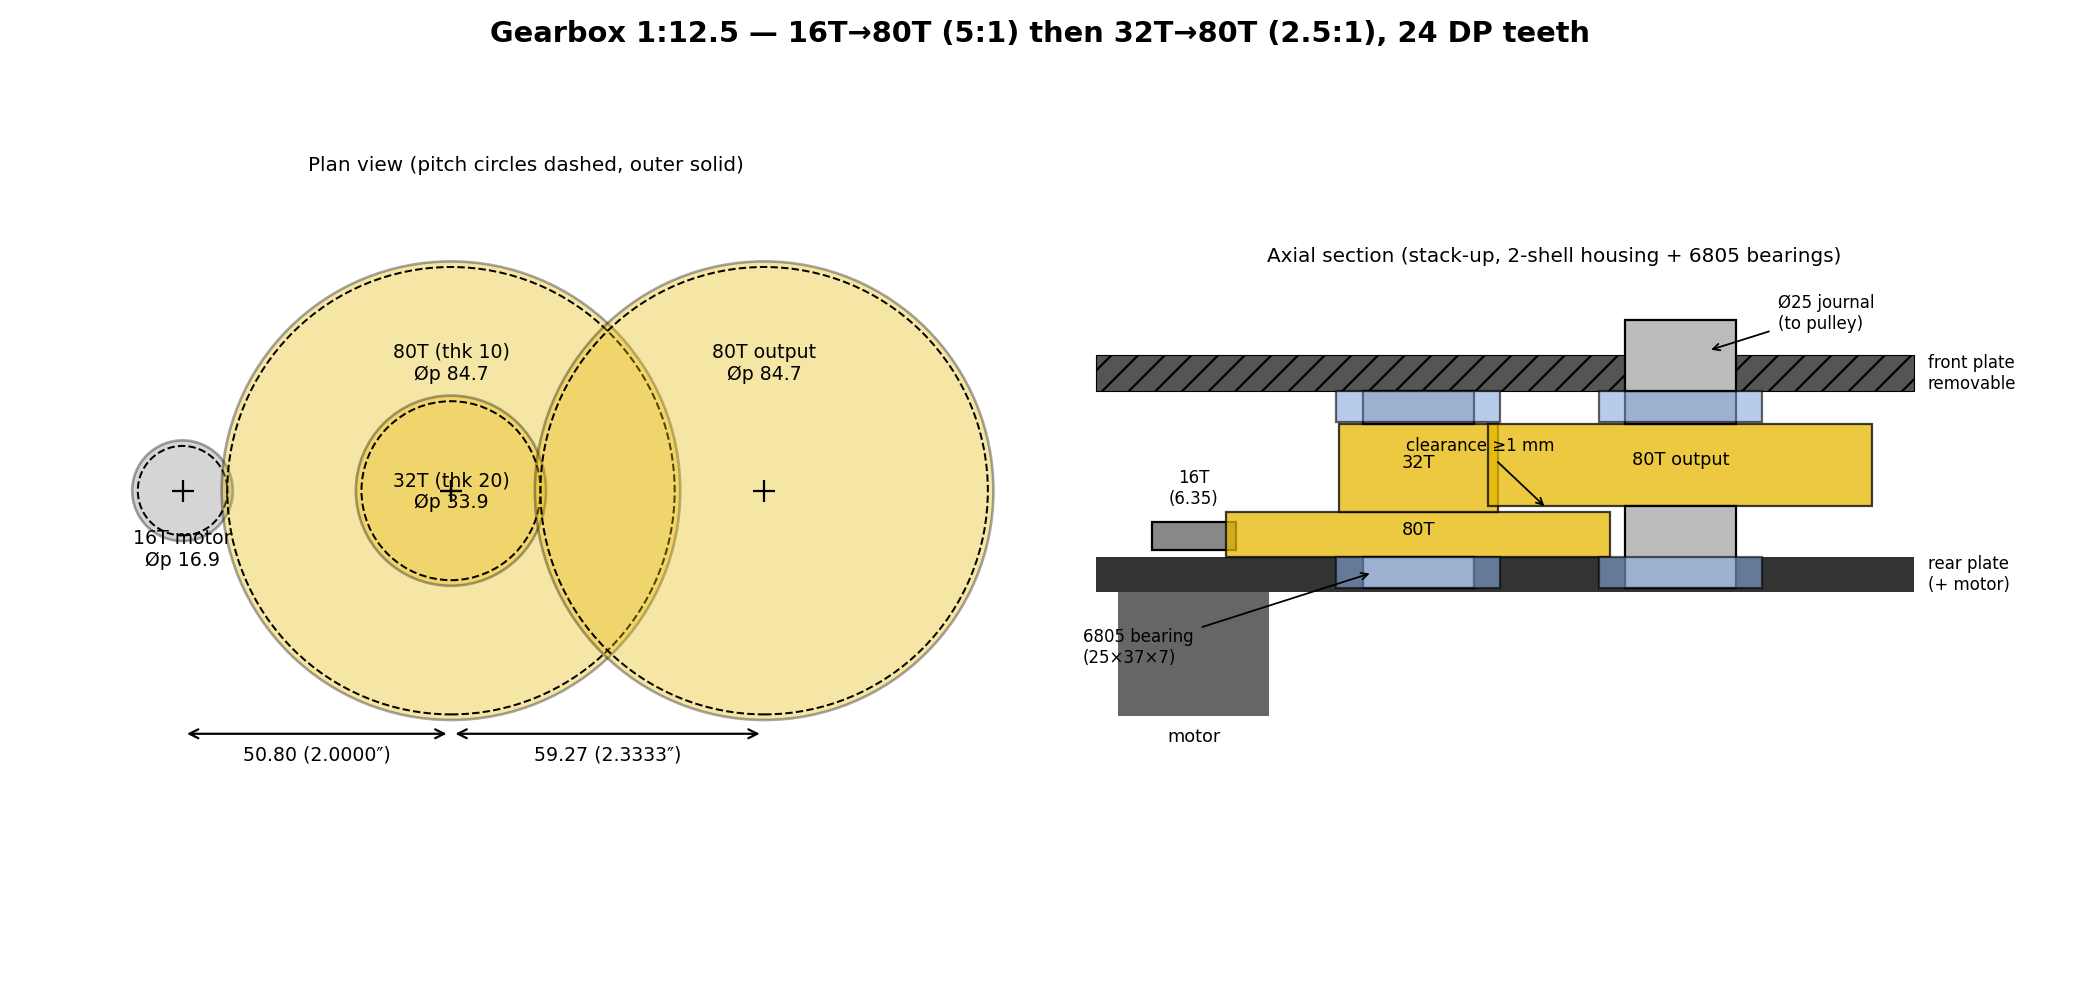
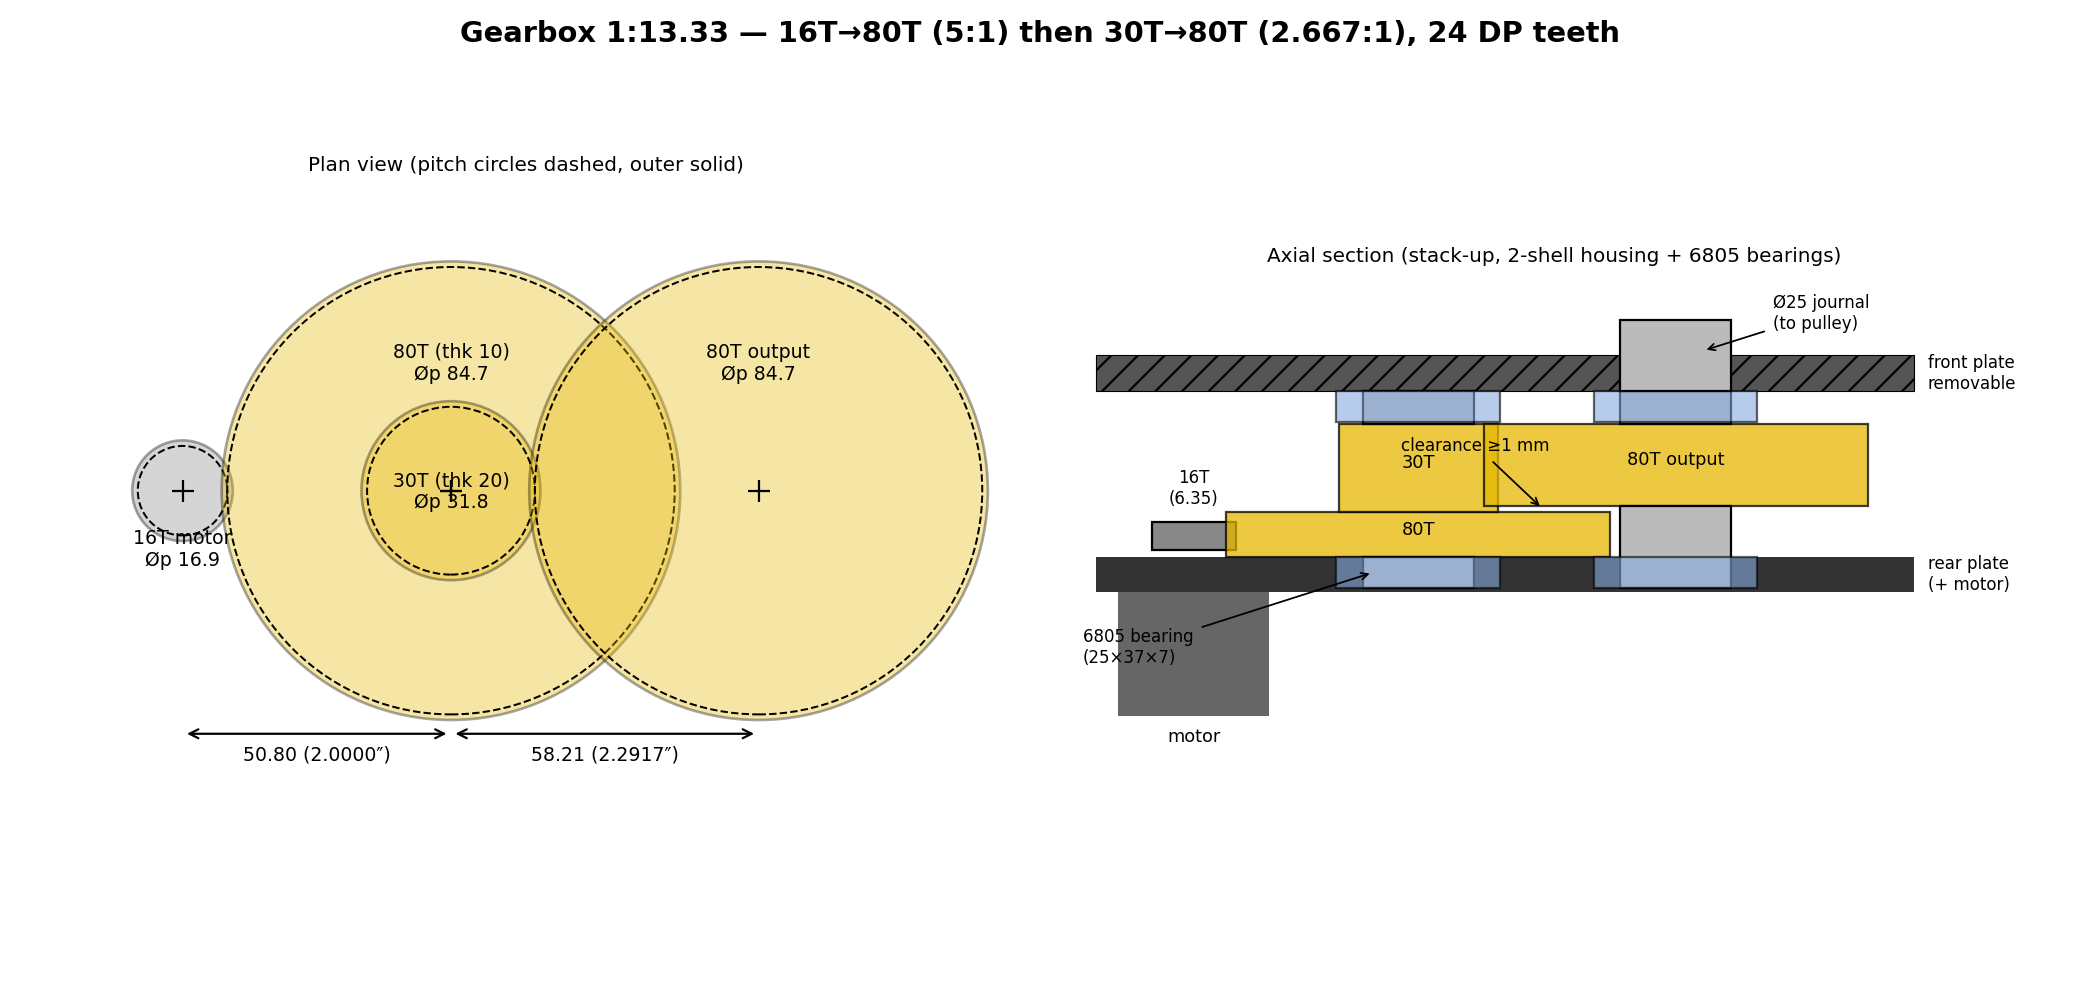
Gearbox ratio → 1:13.33 (16→80 / 30→80), 1:17.07 total
Second-stage pinion changed 32T → 30T (for space). New train:
16T motor → 80T (5:1) then 30T → 80T (2.667:1) = gearbox 13.33:1,
× 25T→32T pulleys (1.28:1) = 17.07:1 total (was 12.5 / 16.0).
Stage-2 center distance 59.27 → 58.21 mm; theoretical top speed ~3.4 m/s
(firmware-limited to 3.3); ~7% more torque; stage-2 tooth force ~113 N.

GEAR_RATIO = 1.28 is UNCHANGED: the AS5600 sits at the gearbox output, so
only the (unchanged) pulleys affect the encoder→speed conversion.

- doc/reducteur.md: chosen-revision section, loads, firmware-align note.
- doc/schematics/gearbox.py + regenerated gearbox.png (30T pinion, 58.21 mm).
- doc/cad/gearbox.scad: 30T + new center distance; also translated its
  remaining French comments to English (missed by the earlier i18n pass).
- README.md / firmware/README.md: all ratio mentions + top-speed figures.
- control_types.hpp: comment (13.33 × 1.28 = 17.07).
- sim vehicle.hpp: physics gear 16 → 17.07.

Verified: host tests + 27 sim scenarios pass (vmax now 2.99 m/s), ESP build
clean, gearbox figure regenerated and checked.

diff --git a/doc/schematics/gearbox.py b/doc/schematics/gearbox.py
@@ -1,4 +1,4 @@
-# gearbox.py — Printed 1:12.5 gearbox schematic (plan view + axial section).
+# gearbox.py — Printed 1:13.33 gearbox schematic (plan view + axial section).
 # Actual dimensions (24 DP) — see doc/reducteur.md. Regenerate:
 #   . .venv-schem/bin/activate && python doc/schematics/gearbox.py
 import matplotlib
@@ -15,14 +15,14 @@ def outer_d(z): return (z + 2) / DP * IN    # outer Ø
 # Axes (plan view, aligned layout like the prototype)
 A_MOT = (0.0, 0.0)                # motor axis (16T pinion)
 E1 = (16 + 80) / (2 * DP) * IN    # 50.80
-E2 = (32 + 80) / (2 * DP) * IN    # 59.27
-A_INT = (E1, 0.0)                 # intermediate axis (80T + 32T)
+E2 = (30 + 80) / (2 * DP) * IN    # 58.21
+A_INT = (E1, 0.0)                 # intermediate axis (80T + 30T)
 A_OUT = (E1 + E2, 0.0)            # output axis (64T + pulley)
 
 C_PIN, C_64, C_32 = '#888888', '#e6b800', '#e6b800'
 
 fig, (ax1, ax2) = plt.subplots(1, 2, figsize=(13, 6.2))
-fig.suptitle("Gearbox 1:12.5 — 16T→80T (5:1) then 32T→80T (2.5:1), 24 DP teeth",
+fig.suptitle("Gearbox 1:13.33 — 16T→80T (5:1) then 30T→80T (2.667:1), 24 DP teeth",
              fontsize=13, fontweight='bold')
 
 # ───────────────────────── Plan view─────────────────────────
@@ -38,12 +38,12 @@ def gear_plan(ax, center, z, color, label, label_dy):
 
 gear_plan(ax1, A_MOT, 16, C_PIN, "16T motor\nØp 16.9", -34)
 gear_plan(ax1, A_INT, 80, C_64, "80T (thk 10)\nØp 84.7", 50)
-gear_plan(ax1, A_INT, 32, C_32, "32T (thk 20)\nØp 33.9", -8)
+gear_plan(ax1, A_INT, 30, C_32, "30T (thk 20)\nØp 31.8", -8)
 gear_plan(ax1, A_OUT, 80, C_64, "80T output\nØp 84.7", 50)
 
 # Dimensioned center distances
 for (x0, x1, txt) in [(A_MOT[0], A_INT[0], "50.80 (2.0000″)"),
-                      (A_INT[0], A_OUT[0], "59.27 (2.3333″)")]:
+                      (A_INT[0], A_OUT[0], "58.21 (2.2917″)")]:
     y = -46
     ax1.annotate('', xy=(x1, y), xytext=(x0, y), arrowprops=dict(arrowstyle='<->', lw=1))
     ax1.text((x0 + x1) / 2, y - 5, txt, ha='center', fontsize=8.5)
@@ -87,7 +87,7 @@ for zb in (Z0 - BRG_T, zfront - 0.001):                                         
 rect(ax2, x - BRG_D / 2, Z0 - BRG_T, BRG_D, BRG_T, facecolor='#88aadd', edgecolor='black', alpha=0.6)
 rect(ax2, x - BRG_D / 2, zfront - BRG_T, BRG_D, BRG_T, facecolor='#88aadd', edgecolor='black', alpha=0.6)
 ax2.text(x, Z0 + T64 / 2, "80T", ha='center', fontsize=8)
-ax2.text(x, Z0 + T64 + T32 / 2, "32T", ha='center', fontsize=8)
+ax2.text(x, Z0 + T64 + T32 / 2, "30T", ha='center', fontsize=8)
 
 # output 64T: at the 32T level (offset by GAP above stage-1 64T)
 xo = A_OUT[0]

diff --git a/firmware/main/control_types.hpp b/firmware/main/control_types.hpp
@@ -41,9 +41,9 @@ constexpr int VBAT_READ_TICKS = 25;   // 500 Hz / 25 = 20 Hz
 constexpr uint8_t ADS1115_ADDR = 0x48;
 
 // AS5600 angle sensor (I2C, 12-bit absolute = 4096 counts/turn). Kinematics (see
-// doc/reducteur.md): gearbox 16T→80T then 32T→80T = 1:12.5; magnet on the GEARBOX OUTPUT,
+// doc/reducteur.md): gearbox 16T→80T then 30T→80T = 1:13.33; magnet on the GEARBOX OUTPUT,
 // then pulleys 25T→32T (1.28:1) up to the wheel → the sensor turns 1.28 times per wheel turn
-// ⇒ GEAR_RATIO = 1.28 (total motor→wheel reduction: 12.5 × 1.28 = 16.0 EXACTLY).
+// ⇒ GEAR_RATIO = 1.28 (total motor→wheel reduction: 13.33 × 1.28 = 17.07).
 // 10" wheel = 0.254 m. Native 3.3 V supply → NO level-shift. Speed = derivative of the angle
 // (Δcounts × CTRL_HZ) with 0↔4095 wrap; the SIGN of Δ gives the direction. 500 Hz: unambiguous.
 constexpr float AS5600_CPR    = 4096.0f;  // counts per turn (12 bits)

diff --git a/firmware/test_host/sim/vehicle.hpp b/firmware/test_host/sim/vehicle.hpp
@@ -43,7 +43,7 @@ struct VehicleParams
     // capped everywhere at kt·i_max: the simulation can NEVER exceed the theoretical
     // capacity of the motors (real stall 85 A and plugging ~150 A are therefore clamped).
     float i_max_a   = 19.6f;
-    float gear      = 16.f;     // total motor → wheel reduction (1:16.0)
+    float gear      = 17.07f;   // total motor → wheel reduction (1:17.07)
     float eta       = 0.85f;    // gearbox + belt efficiency
     float wheel_r_m = hw::WHEEL_DIAM_M / 2.f;
 

diff --git a/README.md b/README.md
@@ -79,7 +79,7 @@ flowchart TB
 
 **Footprint:** length ~125 cm · width ~91 cm · **front track width ~84 cm** · **wheelbase ~76 cm** (axle **set back** into the body, nose ~30 cm) · **2 front drive wheels Ø25.4 cm (10″) + tech bay in the nose** + **1 free rear caster wheel 10″** · **side guardrails** + **emergency stop at the top of the seatback (centered)** · low seat (tip-resistant).
 
-> ⚠ For **flat ground, under adult supervision** only. Estimated speed ~8–11.5 km/h (~3.2 m/s), runtime ~10–20 min. **A tricycle tips over more easily than a 4-wheeler** → software rollover protection (see §3).
+> ⚠ For **flat ground, under adult supervision** only. Estimated speed ~8–12 km/h (~3.3 m/s), runtime ~10–20 min. **A tricycle tips over more easily than a 4-wheeler** → software rollover protection (see §3).
 
 ## At a glance
 
@@ -88,7 +88,7 @@ flowchart TB
 | **Seats** | 2, single bench side by side; **driver on the left** (gamepad) |
 | **Steering** | **Differential (skid steer)**: speed difference between the 2 front wheels; **pivot in place** possible; **no mechanical steering parts** |
 | **Propulsion** | **2× 12 V DC motors (~172 W / 0.23 HP)** at the FRONT, **independent** (one per wheel) — **PWM/DIR per wheel** |
-| **Transmission** | **3D-printed 1:16 gearboxes** (two 4:1 stages, 16T/24 DP motor pinion — see [`doc/reducteur.md`](doc/reducteur.md)) + **pulleys bolted to the front wheels + belts** |
+| **Transmission** | **3D-printed gearboxes** (16→80 then 30→80 = 1:13.33, 16T/24 DP motor pinion — see [`doc/reducteur.md`](doc/reducteur.md)) + **1.28:1 pulleys bolted to the front wheels + belts** = **1:17 total** |
 | **Wheels** | **2× front drive Ø25.4 cm (10″)** (plastic rim, 1/2" bearing) + **1 free pivoting rear caster wheel** |
 | **Driving** | **Bluetooth gamepad** (stick: Y = forward/reverse, X = turn); **calibration mandatory**; analog joystick reserved (future) |
 | **Electronics** | **ESP32** → **dual-channel driver 20 A / 6–30 V** (PWM + DIR / channel), **PWM capped at ≈ 12 V/Vbat** (12 V → ~100%, 24 V → ~50%); **tech bay in the nose** (near the 2 motors, short power wiring) |
@@ -281,8 +281,8 @@ Web parameters: **`turn_gain`** (turn authority), **`turn_full_ms`** / **`turn_h
 | | **1× pivoting rear caster wheel (caster)** | **Free**, unpowered caster; **Ø ~12.5 cm (5")**, mounted height ~15 cm, **load ≥ 50 kg** |
 | | Shoulder bolts (front wheels) | **Supplied with the wheels** (1/2" shoulder, 3/8" thread) |
 | **Propulsion** | **2× 12 V DC motors** (one per **front** wheel) | ~172 W (0.23 HP), 19.6 A, 4615 rpm; **independent** |
-| | 2 3D gearboxes | **1:16** ratio (two 4:1 stages, [design](doc/reducteur.md)), printed (PETG/ABS/nylon) |
-| | Pulleys + belts | Pulley **bolted to each front wheel** + belt to the gearbox (**1:1**) |
+| | 2 3D gearboxes | **1:13.33** (16→80 then 30→80, [design](doc/reducteur.md)) + 1.28:1 pulleys = **1:17 total**, printed (PETG/ABS/nylon) |
+| | Pulleys + belts | Pulley **bolted to each front wheel** + belt from the gearbox (**1.28:1 pulleys**) |
 | | **2× AS5600 angle sensor** + diametric magnet | one per front wheel, **1 per I²C bus**; contactless magnetic, **12-bit absolute I²C** (fixed address 0x36), **3.3 V native** (no level-shift), 4.7 kΩ pull-ups |
 | **Driving** | **Bluetooth gamepad** | stick: Y = forward/reverse, X = turn; button **B** = emergency stop, button **START** = arming; **calibration mandatory** |
 | | *Analog joystick* | **reserved (future, not wired)**: 2 ADS1115 channels (A1/A2) planned behind the same software abstraction |
@@ -306,7 +306,7 @@ Web parameters: **`turn_gain`** (turn authority), **`turn_full_ms`** / **`turn_h
 
 ### Propulsion — 2 front 12 V DC motors
 
-Each **front wheel** is driven by its **own 12 V permanent-magnet DC motor** through a **3D-printed 1:12.5 gearbox** (16→80, 32→80) and **25T→32T pulleys (1.28:1)** — total reduction **1:16.0**. The **two motors are controlled independently** (PWM + DIR per channel): it's this **command difference** that provides steering. **Each wheel has its own AS5600 sensor** for the control loop.
+Each **front wheel** is driven by its **own 12 V permanent-magnet DC motor** through a **3D-printed 1:13.33 gearbox** (16→80, 30→80) and **25T→32T pulleys (1.28:1)** — total reduction **1:17.07**. The **two motors are controlled independently** (PWM + DIR per channel): it's this **command difference** that provides steering. **Each wheel has its own AS5600 sensor** for the control loop.
 
 | Characteristic | Value |
 |---|---|
@@ -327,8 +327,8 @@ flowchart LR
     DRV["Dual-channel driver<br/>20 A · 6–30 V · PWM+DIR"]
     M1["Front L motor 12 V (~172 W)"]
     M2["Front R motor 12 V (~172 W)"]
-    G1["3D gearbox 1:16"]
-    G2["3D gearbox 1:16"]
+    G1["3D gearbox 1:13.33"]
+    G2["3D gearbox 1:13.33"]
     R1["🛞 Front left wheel"]
     R2["🛞 Front right wheel"]
     CAS["🛞 Free rear caster"]
@@ -359,7 +359,7 @@ flowchart LR
 | Parameter | Value |
 |---|---|
 | Speed at ~50% (≈ 10 V) | ~**3850 rpm** motor → **~240 rpm wheel** (÷16) |
-| Estimated top speed | **~3.2 m/s (11.5 km/h)** — firmware-limited |
+| Estimated top speed | **~3.3 m/s (~12 km/h)** — firmware-limited |
 | Total current | ~**40 A** → 2 batteries in parallel (~20 A/pack) |
 | Battery energy / runtime | ~90–100 Wh → **~10–20 min** depending on use |
 
@@ -374,7 +374,7 @@ flowchart LR
 
 ### AS5600 speed sensors (×2, on I²C)
 
-**AS5600** angle sensor: **contactless** magnetic, **12-bit absolute angle** (4096 points/turn) read over **I²C**, with a **diametric magnet** on the shaft end. There is **one AS5600 per front wheel**, **one per I²C bus** (each AS5600 having the fixed address **0x36**, they cannot coexist on the same bus). **Known kinematics** (see [`doc/reducteur.md`](doc/reducteur.md)): the magnet is on the **output of the 1:12.5 gearbox**, followed by **1.28:1 pulleys** → **the sensor makes 1.28 turns per wheel turn** ⇒ `GEAR_RATIO = 1.28`, **10″ wheel = 0.254 m**. The **vehicle speed** (m/s) = **signed average** of the 2 wheels (pivot in place → 0 m/s). The conversion is **fully determined**. They serve to:
+**AS5600** angle sensor: **contactless** magnetic, **12-bit absolute angle** (4096 points/turn) read over **I²C**, with a **diametric magnet** on the shaft end. There is **one AS5600 per front wheel**, **one per I²C bus** (each AS5600 having the fixed address **0x36**, they cannot coexist on the same bus). **Known kinematics** (see [`doc/reducteur.md`](doc/reducteur.md)): the magnet is on the **output of the 1:13.33 gearbox**, followed by **1.28:1 pulleys** → **the sensor makes 1.28 turns per wheel turn** ⇒ `GEAR_RATIO = 1.28`, **10″ wheel = 0.254 m**. The **vehicle speed** (m/s) = **signed average** of the 2 wheels (pivot in place → 0 m/s). The conversion is **fully determined**. They serve to:
 - **Measure each wheel's speed** → reliable limiter; **PID brake** toward 0; **direction** (sign of Δangle, the DIR pin sets the convention); **safety** (stall: PWM active with no rotation > 1 s → fault).
 
 ✅ **3.3 V native** (VDD5V/VDD3V3 tied together) → **SDA/SCL directly on the ESP32, NO level-shift**. Wiring per sensor: **SDA, SCL, 3.3 V, GND** (+ magnet), **4.7 kΩ** pull-ups per bus.
@@ -714,7 +714,7 @@ flowchart LR
     P7 --> P8["7. Progressive tests"] --> P9["8. Final safety"]
 ```
 
-**Phase 0 — Preparation.** Gather hardware (§4) and tools (drill, saw, wrenches, soldering iron, multimeter, 3D printer). Print the 2 gearboxes (1:16) + drilling template. Work with **batteries disconnected**.
+**Phase 0 — Preparation.** Gather hardware (§4) and tools (drill, saw, wrenches, soldering iron, multimeter, 3D printer). Print the 2 gearboxes (1:17) + drilling template. Work with **batteries disconnected**.
 
 **Phase 1 — Wooden frame.** 2×3 grid (crossmembers ~25–30 cm) + 6 mm plywood floor (12 mm under the bench) + **tech bay at the front** (~30 cm, between the drive axle and the bench) + **continuous** ~80 cm bench (no divider) + **side guardrails** (1/2″ plywood, ~30 cm) + seatback. ✅ *Two people can sit without excessive flex; the guardrails hold a child who slides sideways well.*
 
@@ -726,7 +726,7 @@ flowchart LR
 
 **Phase 5 — Control electronics.** ESP32 + breakout; **buck 20→5 V** on the +20 rail (the ESP makes its own 3.3 V); **ADS1115** (3.3 V) on bus 0, Vbat divider 100 k/15 k → A0 + capacitor; **2× AS5600**: wheel L on **bus 0 (SDA18/SCL19)**, wheel R on **bus 1 (SDA27/SCL14)**, 4.7 kΩ pull-ups per bus + centered magnets; START button (GPIO16, pull-up); WS2812B (GPIO17). *(Future reserves wired but unused: 2× encoder A/B 34/35 + 36/39; joystick on A1/A2 of the ADS1115.)* ✅ *Common grounds, 3.3 V/5 V present, AS5600 detected (0x36 on each bus) + ADS1115 (0x48).*
 
-**Phase 6 — Firmware + settings.** `idf.py build flash monitor` (see [`firmware/README.md`](firmware/README.md)). Wi-Fi **Kart-Config** → `http://192.168.4.1`. **Pair then calibrate the gamepad** (mandatory to drive); adjust **`vbat_div_ratio`** with a multimeter. Speed conversion **already determined** (AS5600 at the output of the 1:12.5 gearbox + 1.28:1 pulleys → `GEAR_RATIO=1.28`, 10″ wheel, **vehicle speed in m/s**) → **verify on the bench** + **fine-tune the PIDs** per wheel (limiter ≈ 0.54/0.50, brake ≈ 0.43/0.29/0.011 — in m/s). Set a **low speed limit** (`speed_limit_ms`) + **rollover protection** (`turn_gain`, `turn_full_ms`, `turn_hi`, `turn_rate`, `thr_ramp_per_s`) + check LVC. *(500 Hz loop, IPv6, System page: automatic.)*
+**Phase 6 — Firmware + settings.** `idf.py build flash monitor` (see [`firmware/README.md`](firmware/README.md)). Wi-Fi **Kart-Config** → `http://192.168.4.1`. **Pair then calibrate the gamepad** (mandatory to drive); adjust **`vbat_div_ratio`** with a multimeter. Speed conversion **already determined** (AS5600 at the output of the 1:13.33 gearbox + 1.28:1 pulleys → `GEAR_RATIO=1.28`, 10″ wheel, **vehicle speed in m/s**) → **verify on the bench** + **fine-tune the PIDs** per wheel (limiter ≈ 0.54/0.50, brake ≈ 0.43/0.29/0.011 — in m/s). Set a **low speed limit** (`speed_limit_ms`) + **rollover protection** (`turn_gain`, `turn_full_ms`, `turn_hi`, `turn_rate`, `thr_ramp_per_s`) + check LVC. *(500 Hz loop, IPv6, System page: automatic.)*
 
 **Phase 7 — Progressive tests (wheels in the air).** Arm (physical or gamepad START), light forward → correct direction of **each wheel** (swap M1A/M1B if needed); push the stick right → turns right; test **default brake**, **pivot in place**, **disarm**, **gamepad emergency stop (B)** and **gamepad disconnect → braking**, **central hardware e-stop** (cuts everything); trigger the faults (simulated **LVC**, **sensor failure** by unplugging an AS5600) → must refuse/cut. Then on the ground: flat terrain, minimum speed, rollover protection active, 1 light child first, **progressive** limit.
 

diff --git a/doc/reducteur.md b/doc/reducteur.md
@@ -1,4 +1,4 @@
-# 1:16 gearbox — motor pinion identification and gear train design
+# 1:17 gearbox — motor pinion identification and gear train design
 
 ## Motor pinion (measured)
 
@@ -16,17 +16,17 @@
 **24 DP: 3.33 mm** vs module 1: 3.14 mm; or print a 16T/24 DP test pinion
 and check the tooth-in-tooth meshing with the motor pinion.
 
-## ⭐ REVISION (chosen): 1:12.5 gearbox (16→80, 32→80) + 25T→32T pulleys = **exactly 1:16.0**
+## ⭐ REVISION (chosen): 1:13.33 gearbox (16→80, 30→80) + 25T→32T pulleys = **1:17.07**
 
 | Mesh | Ratio | Center distance | Parts |
 |---|---|---|---|
 | **16T motor → 80T** | 5:1 | `96/48` = 2.0000″ = **50.80 mm** | 80T: pitch Ø 84.7, outside Ø **86.8 mm** |
-| **32T → 80T (output)** | 2.5:1 | `112/48` = 2.3333″ = **59.27 mm** | 32T integral with the 1st 80T (compound gear) |
+| **30T → 80T (output)** | 2.667:1 | `110/48` = 2.2917″ = **58.21 mm** | 30T integral with the 1st 80T (compound gear) |
 | **25T → 32T pulleys** | 1.28:1 | — | 25 and 32 **coprime** (wear spread out) |
 
-- **Total: 12.5 × 1.28 = 16.000** — speed ~3.2 m/s @ 50% PWM (10″ wheel), unchanged.
-- ⚠ **Higher loads at stage 2**: intermediate torque ×5 (1.8 N·m) → **Ft ≈ 106 N** on
-  the 32T. At 20 mm thickness → ~21 MPa (ASA limit): **increase stage 2 to 25 mm** (~17 MPa).
+- **Total: 13.33 × 1.28 = 17.07** — top speed ~3.4 m/s (10″ wheel), firmware-limited to 3.3 m/s; ~7% more torque than 1:16.
+- ⚠ **Higher loads at stage 2**: intermediate torque ×5 (1.8 N·m) → **Ft ≈ 113 N** on
+  the 30T. At 20 mm thickness → ~22 MPa (ASA limit): **increase stage 2 to 25 mm** (~18 MPa).
 - Higher belt tension than with the large pulleys (~190 N at max torque on a
   25T HTD 5M) — still comfortable for a 15 mm belt.
 - Firmware: `GEAR_RATIO = 1.28` (magnet at the gearbox output). Calculated alternatives:
@@ -39,7 +39,7 @@ and check the tooth-in-tooth meshing with the motor pinion.
 
 **Parametric 3D model**: [`doc/cad/gearbox.scad`](cad/gearbox.scad) (OpenSCAD, standalone —
 involute gear-tooth generator included, revision dimensions as parameters).
-`part` selector: `assembly` / `compound` (80T+32T) / `output` / `back` / `front` /
+`part` selector: `assembly` / `compound` (80T+30T) / `output` / `back` / `front` /
 `pinion_test` (16T test pinion to validate the 24 DP) → direct STL export.
 
 ![OpenSCAD render](cad/gearbox_scad.png)
@@ -109,7 +109,7 @@ module 2 (15T→30T, center distance 45 mm) — ruled out in favor of reusing th
 30T Ø47.7 → wheel pulley 60T Ø95.5, screwed onto the 12″ rim). Useful tension ≈ 100 N at max
 torque — very comfortable for a 15 mm belt.
 
-> ✅ **Firmware aligned (1:12.5 revision + 1.28 pulleys)**: `hw::GEAR_RATIO = 1.28` (AS5600
+> ✅ **Firmware aligned (1:13.33 revision + 1.28 pulleys)**: `hw::GEAR_RATIO = 1.28` (AS5600
 > magnet on the **gearbox output**) and `WHEEL_DIAM_M = 0.254` (**10″** wheel) applied in
 > config.hpp; vehicle speed in **m/s** (signed average of the 2 wheels — pivot → 0).
 > If the magnet is moved **onto the wheel**, set `GEAR_RATIO` back to 1.

diff --git a/firmware/README.md b/firmware/README.md
@@ -290,7 +290,7 @@ Web parameters: **`turn_gain`**, **`turn_full_ms`**, **`turn_hi`**,
 ## ⚠ To adjust before first startup
 
 - **Speed sensors**: kinematics **hardcoded** in `config.hpp` (`namespace hw`) —
-  `AS5600_CPR = 4096`, `GEAR_RATIO = 1.28` (magnet at the output of the 1:12.5 gearbox, 25T→32T pulleys),
+  `AS5600_CPR = 4096`, `GEAR_RATIO = 1.28` (magnet at the output of the 1:13.33 gearbox, 25T→32T pulleys),
   `WHEEL_DIAM_M = 0.254` (10″ wheel). **2 AS5600**,
   **one per I²C bus** (fixed address `0x36` → a single sensor per bus). To be **verified on the bench**.
 - **Gamepad**: pair (Gamepad tab) then **calibrate** — mandatory to drive.
